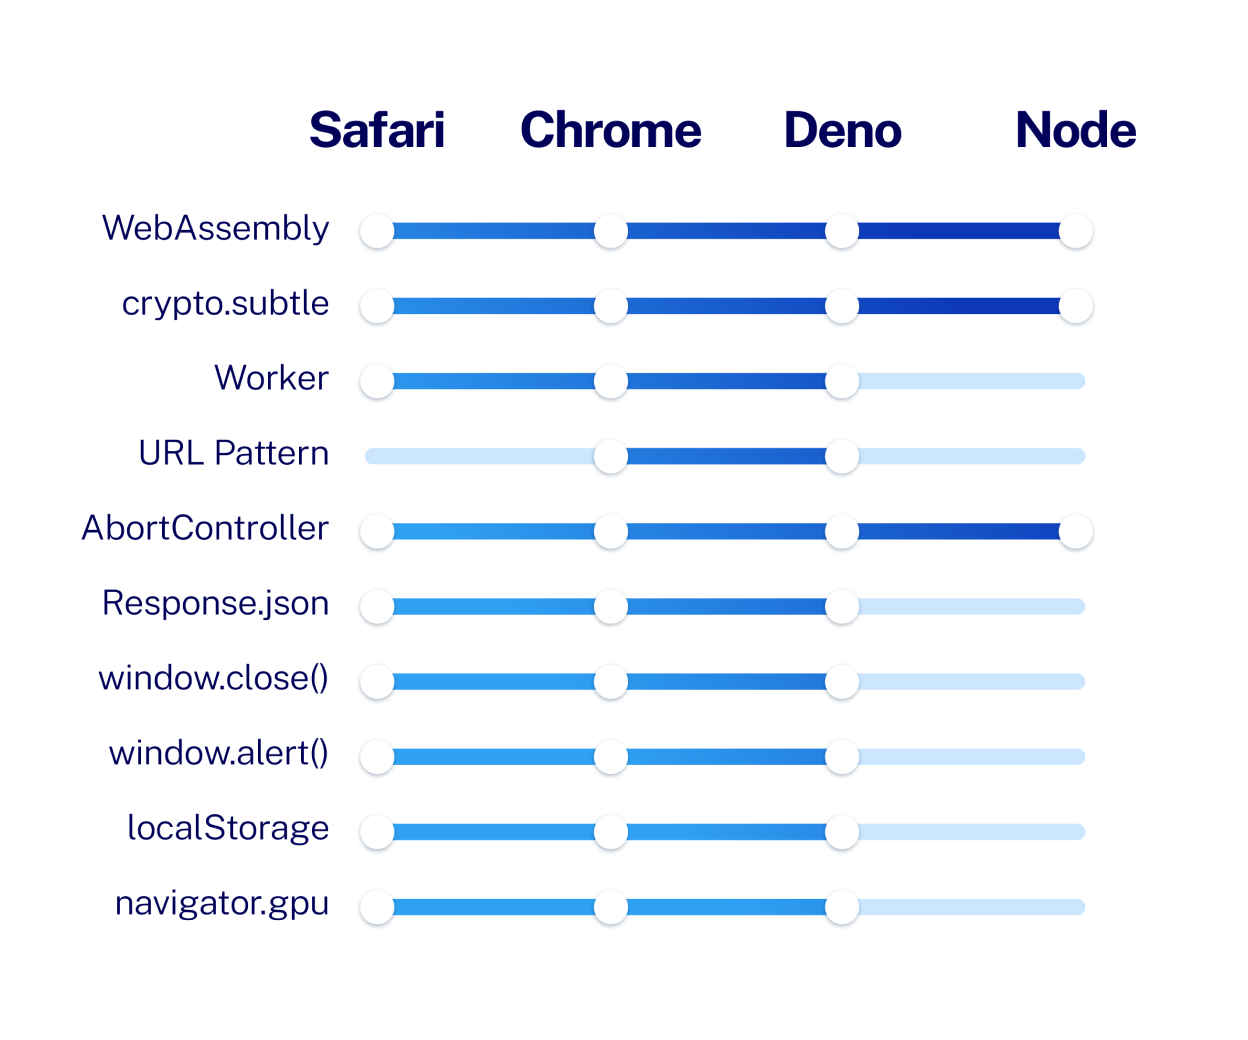
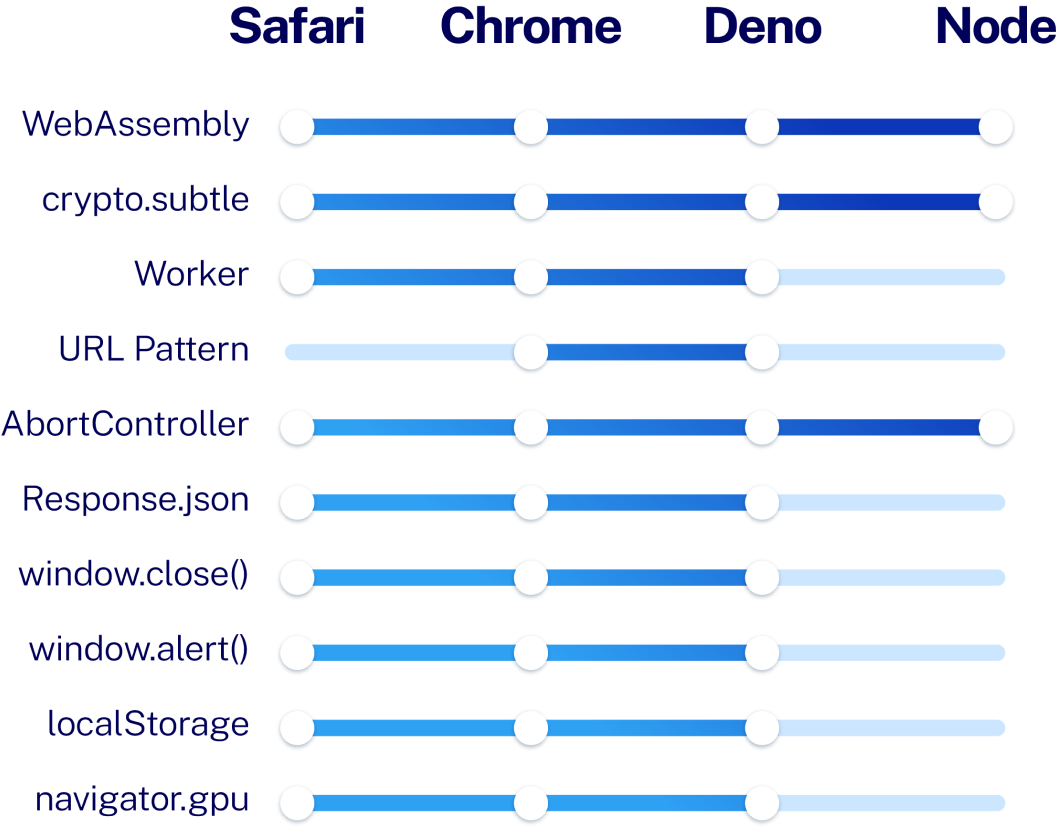
fix assets

diff --git a/routes/index.tsx b/routes/index.tsx
@@ -98,7 +98,7 @@ export default function Home({ data }: PageProps<Data>) {
           subheader="Without the learning curve…"
         >
           <ImageSubSection
-            image={<ScrollInGif />}
+            image={<ScrollInGif src="/images/lp/dependencies" alt="" />}
             header="Avoid installing dependencies"
             additionalContent={
               <img
@@ -116,12 +116,12 @@ export default function Home({ data }: PageProps<Data>) {
             image={
               <>
                 <img
-                  class="lg:hidden"
+                  class="py-7 pl-5 pr-7 lg:hidden"
                   src="/images/lp/web_compatibility.png"
                   alt="Web APIs"
                 />
                 <img
-                  class="hidden lg:block"
+                  class="py-12 pl-16 pr-22 hidden lg:block"
                   src="/images/lp/web_compatibility@lg.png"
                   alt="Web APIs"
                 />
@@ -200,12 +200,12 @@ export default function Home({ data }: PageProps<Data>) {
             image={
               <>
                 <img
-                  class="lg:hidden"
+                  class="py-9 px-5.5 lg:hidden"
                   src="/images/lp/benchmark.png"
                   alt="HTTP Benchmark"
                 />
                 <img
-                  class="hidden lg:block"
+                  class="pt-18 pb-22 px-12 hidden lg:block"
                   src="/images/lp/benchmark@lg.png"
                   alt="HTTP Benchmark"
                 />
@@ -243,12 +243,12 @@ export default function Home({ data }: PageProps<Data>) {
           subheader="Take total control over your workflow."
         >
           <ImageSubSection
-            image={<img src="" alt="" />}
+            image={<ScrollInGif src="/images/lp/secure" alt="" />}
             header="Run untrusted code"
             additionalContent={
               <img
                 src="/images/lp/armor_deno.png"
-                class="absolute hidden lg:(block w-52 -top-14 -right-24)"
+                class="absolute hidden lg:(block w-52 -bottom-14 -right-10)"
                 aria-hidden
               />
             }

diff --git a/islands/ScrollInGif.tsx b/islands/ScrollInGif.tsx
@@ -2,7 +2,13 @@
 
 import { useEffect, useRef, useState } from "preact/hooks";
 
-export default function ScrollInGif() {
+export default function ScrollInGif({
+  src,
+  alt,
+}: {
+  src: string;
+  alt: string;
+}) {
   const imgRef = useRef(null);
   const [scrolledIn, setScrolledIn] = useState(false);
 
@@ -20,7 +26,7 @@ export default function ScrollInGif() {
     };
   }, [imgRef]);
 
-  return false
-    ? <img src="/images/kitty-cat-sandwich.gif" />
-    : <img ref={imgRef} src="/images/benchmark.png" />;
+  return scrolledIn
+    ? <img class="py-11 px-10" ref={imgRef} src={src + ".gif"} alt={alt} />
+    : <img class="py-11 px-10" ref={imgRef} src={src + ".png"} alt={alt} aria-hidden />;
 }
